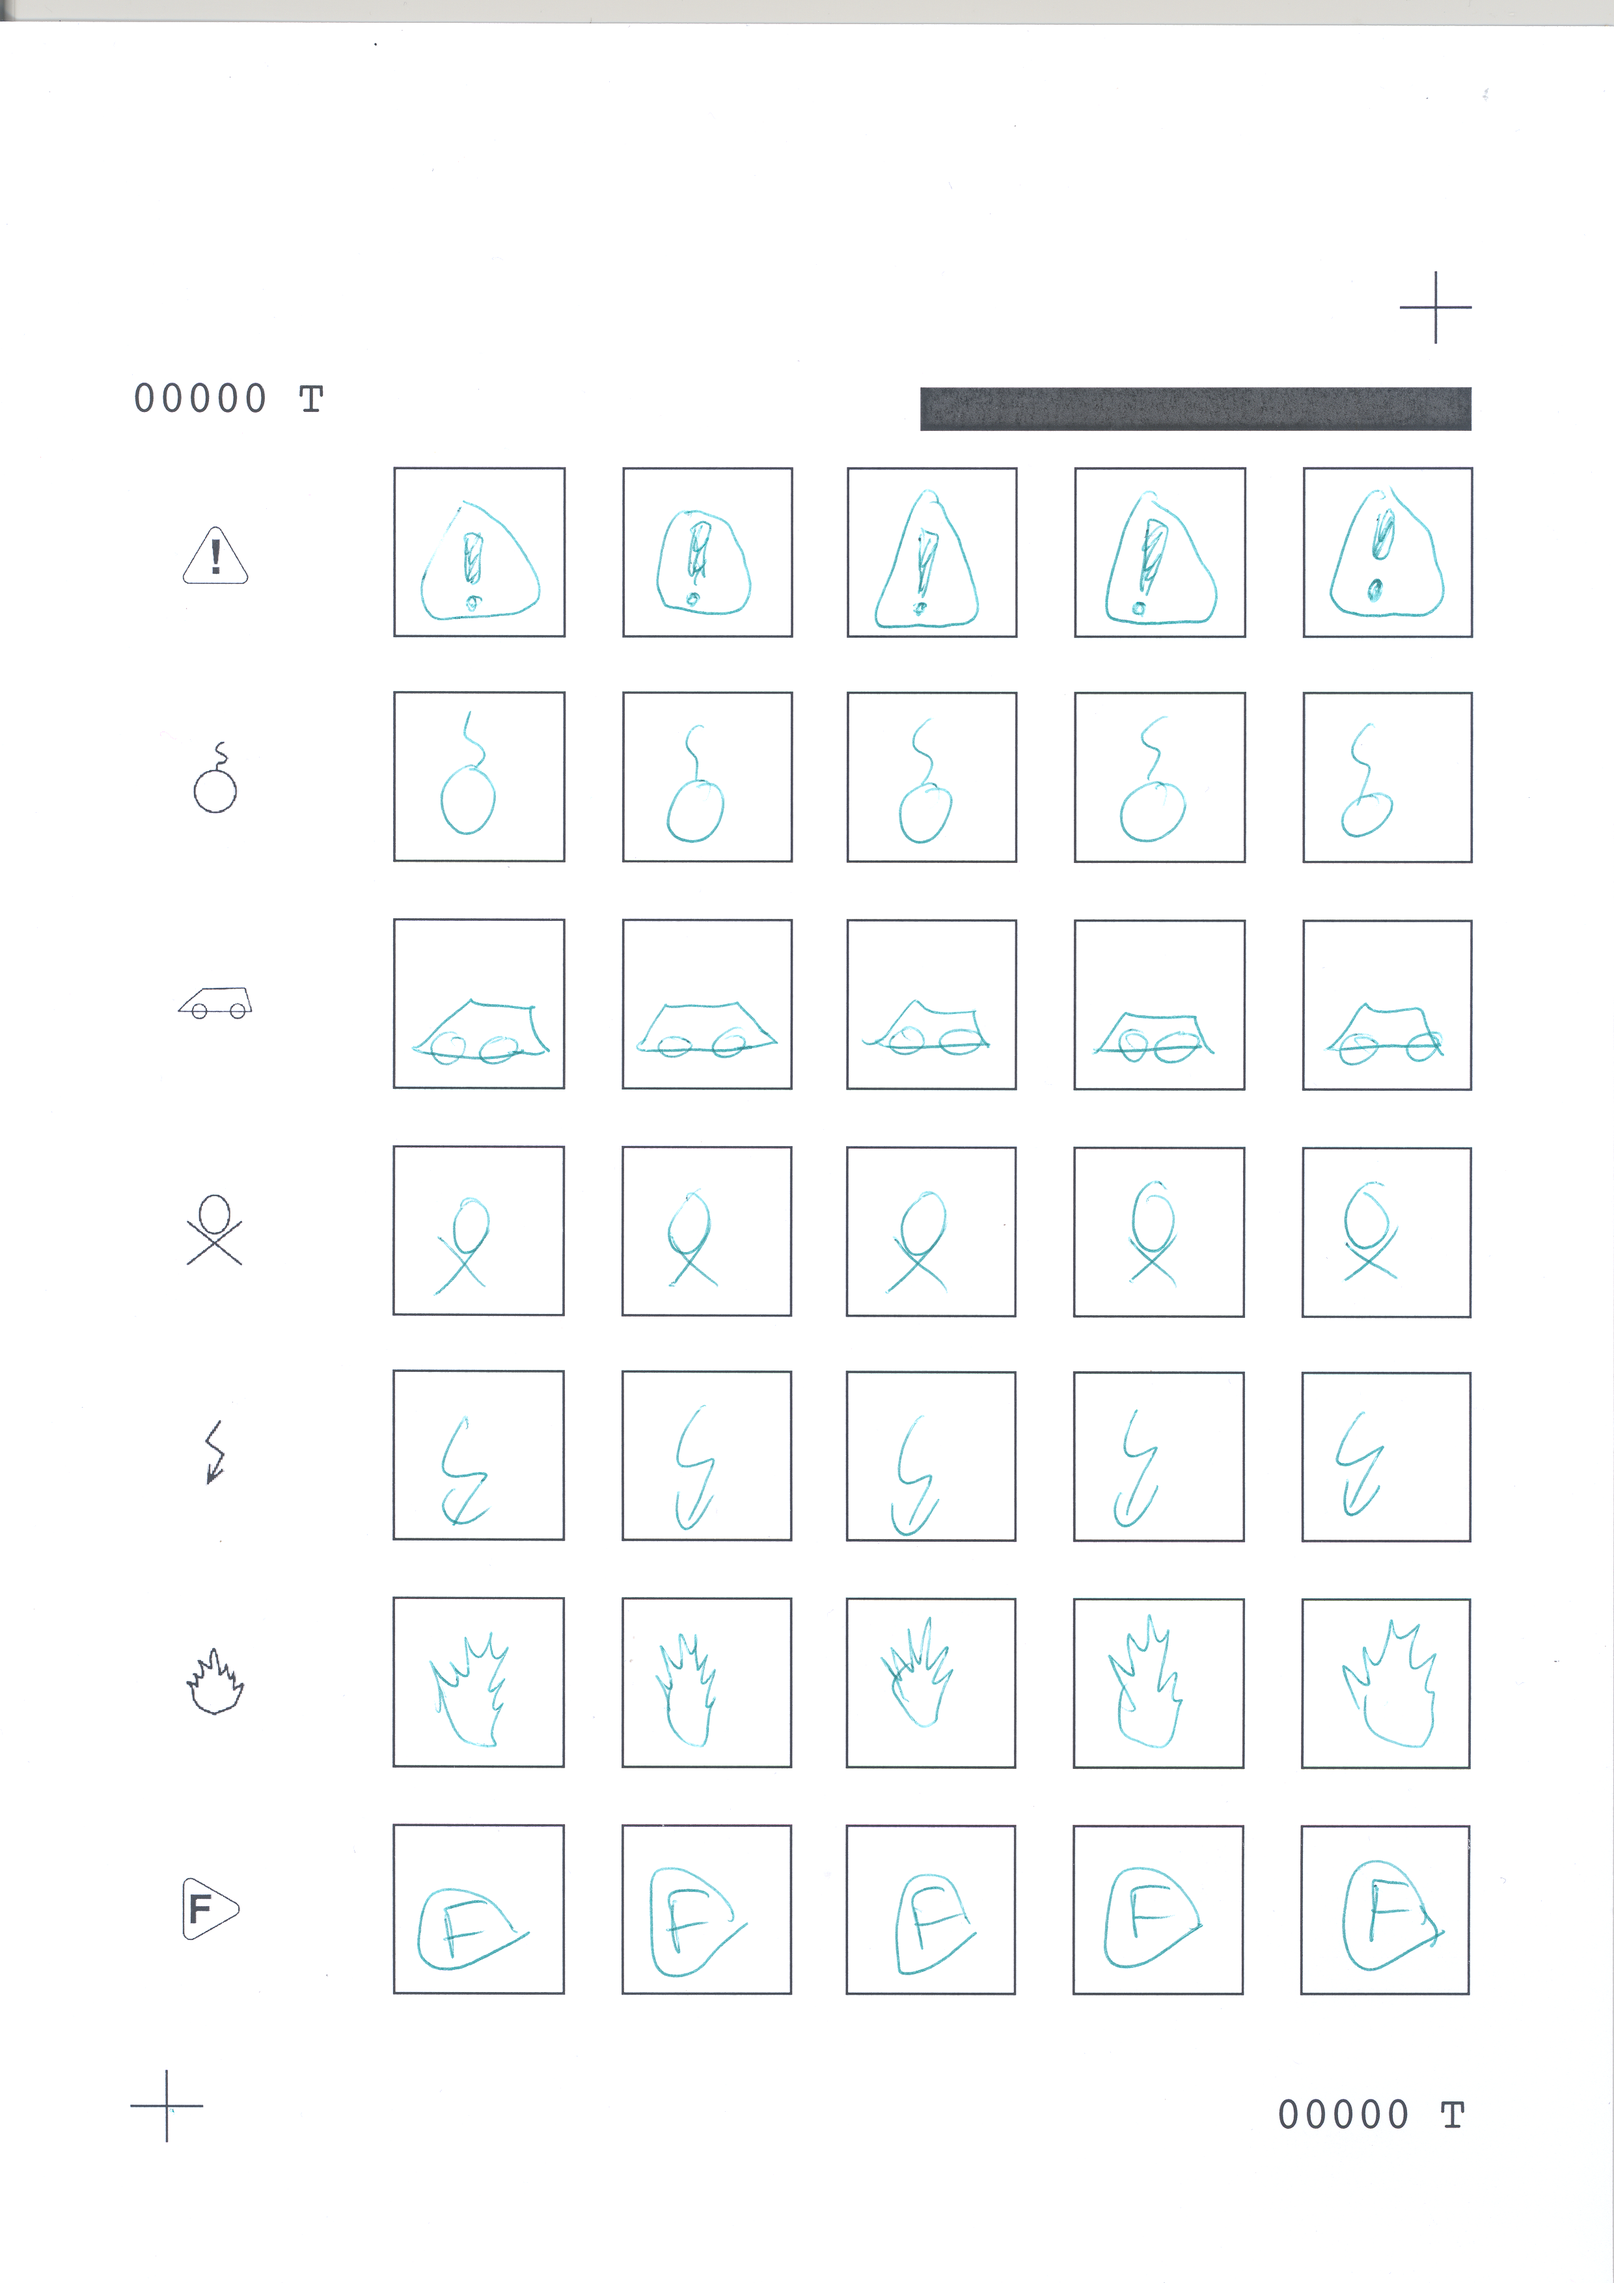
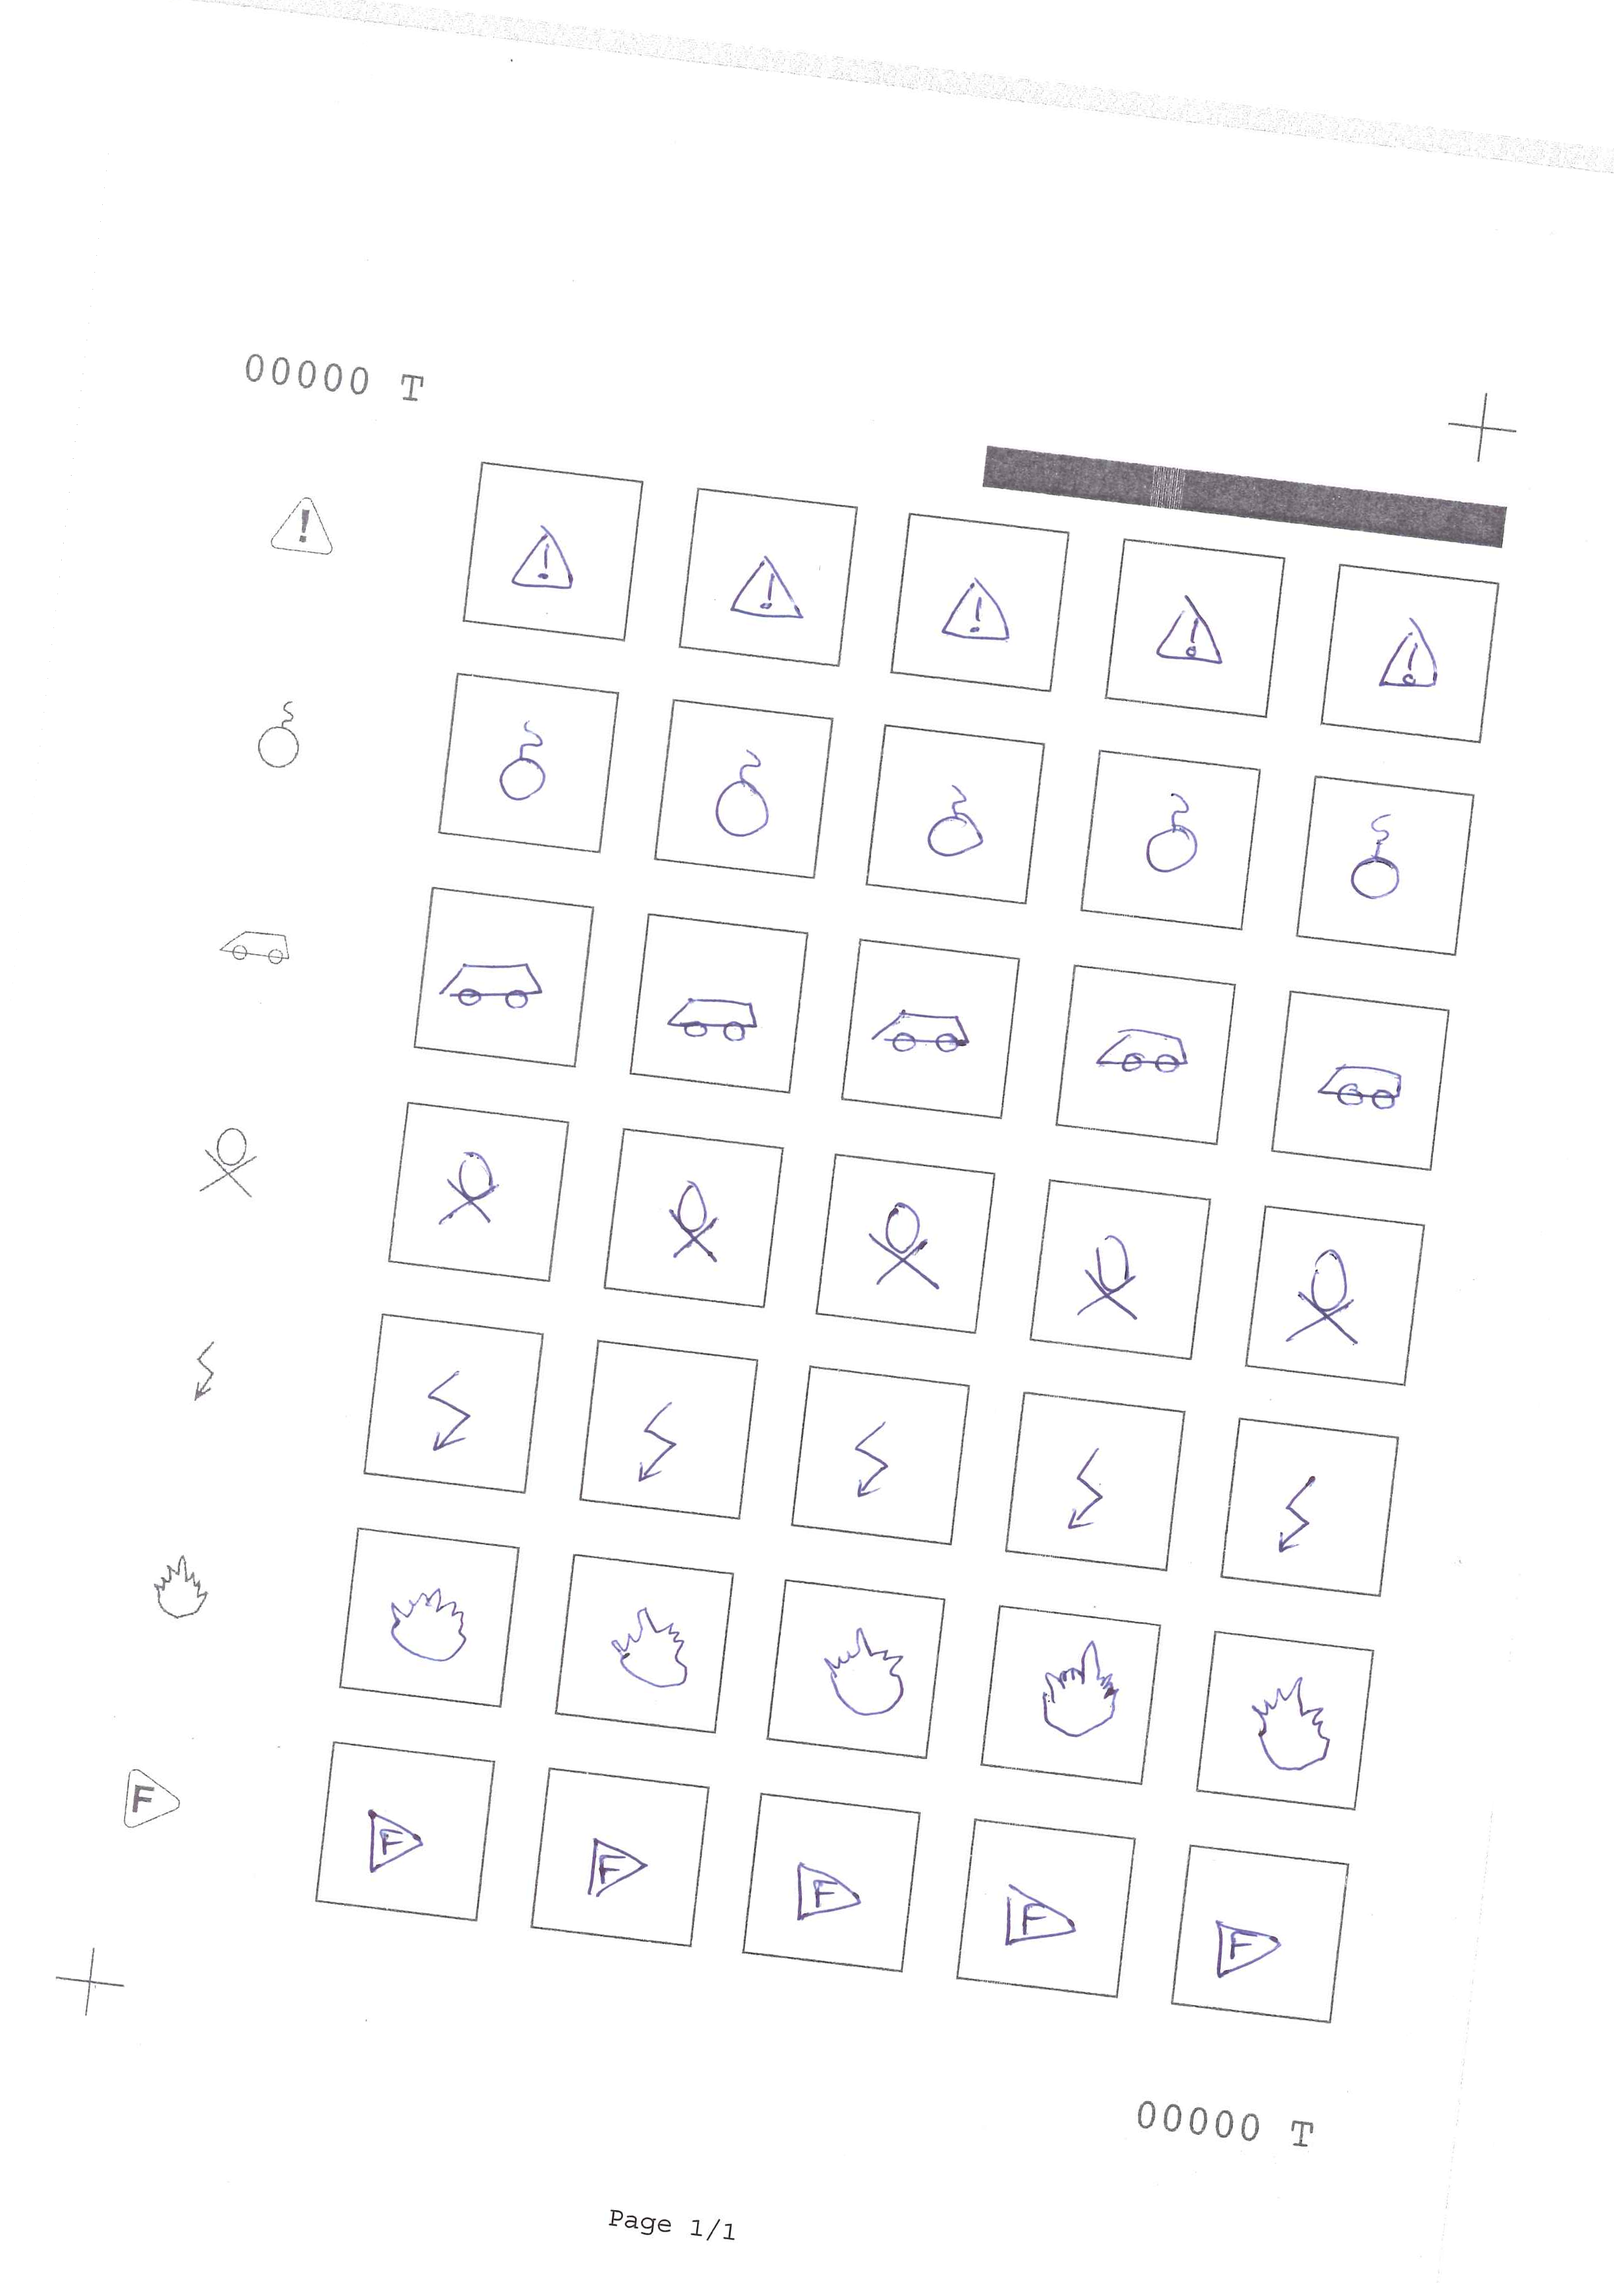
fix orientation detction

diff --git a/src/squares.cpp b/src/squares.cpp
@@ -25,9 +25,8 @@ double angle(Point pt1, Point pt2, Point pt0) {
 void findSquares(const Mat &image, vector<vector<Point> > &squares, int thresh, int N) {
     squares.clear();
     vector<vector<Point>> contours;
-//    old
-//    Mat imgBin = binarize(image);
-    Mat imgBin = removeDrawings(image);
+    Mat imgBin = binarize(image);
+//    Mat imgBin = removeDrawings(image);
 
     // Find contours and store them all as a list
     findContours(imgBin, contours, RETR_LIST, CHAIN_APPROX_SIMPLE);
@@ -263,8 +262,14 @@ void uprightImage(const Mat &image, Mat &uprImage) {
     findSquares(image, rectangles);
     // Convert to rotatedRects
     vector<RotatedRect> squares;
+
+    // keeps only the rectangle for orientation detection
     for (auto const &rect: rectangles) {
-        squares.emplace_back(minAreaRect(rect));
+        int sqRatio = abs((rect[2].x - rect[0].x) / (rect[2].y - rect[0].y));
+        if (sqRatio > 3) {
+            cout << "rect found" << endl;
+            squares.emplace_back(minAreaRect(rect));
+        }
     }
 
     /*/////////////////*/
@@ -278,27 +283,20 @@ void uprightImage(const Mat &image, Mat &uprImage) {
 //    namedWindow("Rotated square detection", WINDOW_NORMAL);
 //    imshow("Rotated square detection", image);
 
-    // NEW : better but not 100% viable : does not work on sample 6
     double angle = 90.0;
     double isUpright = true;
     for (auto const &rect: squares) {
         cout << rect.angle << endl;
     }
 
-    double ang = squares[0].angle;
-    if(fabs(ang) > 1 && fabs(fabs(ang) - 90) > 1){
-        isUpright = false;
-        angle += ang;
+    if(squares.size() > 0) {
+        double ang = squares[0].angle;
+        if(fabs(ang) > 1 && fabs(fabs(ang) - 90) > 1){
+            isUpright = false;
+            angle += ang;
+        }
     }
-// OLD - does not work
-//    double angle = 90.0;
-//    double isUpright = true;
-//    for (auto const &rect: squares) {
-//        angle += rect.angle / squares.size();
-//        if(fabs(rect.angle) > 1 && fabs(fabs(rect.angle) - 90) > 1) {
-//            isUpright = false;
-//        }
-//    }
+
     cout << "Average angle : " << angle << ", " << (isUpright ? "image is already upright, no further treatment" : "image is crooked, it will be set upright") << endl;
 
     if(!isUpright) {

diff --git a/src/main_test_opencv.cpp b/src/main_test_opencv.cpp
@@ -78,7 +78,7 @@ int main (void) {
             //Generate images of remaining squares
             cropRectangles(uprImage, rectangles, "../generated_images/" + scripter + "_" + page);
             //Extract reference icons
-//            getIcons(uprImage, rectangles, referenceIcons);
+            getIcons(uprImage, rectangles, referenceIcons);
 
             // IMAGE RECOGNITION
             // Initialization

diff --git a/src/image_treatment.cpp b/src/image_treatment.cpp
@@ -49,7 +49,7 @@ Mat removeDrawings(const Mat& image) {
     // Convert to greyscale
     Mat grayscale = Mat(size, CV_8UC3);
     cvtColor(image, grayscale, COLOR_BGR2GRAY);
-    imshow("Grayscale",grayscale);
+//    imshow("Grayscale",grayscale);
 
     // Applying a binary threshold to the image
     Mat binary = Mat(size, CV_8UC3);
